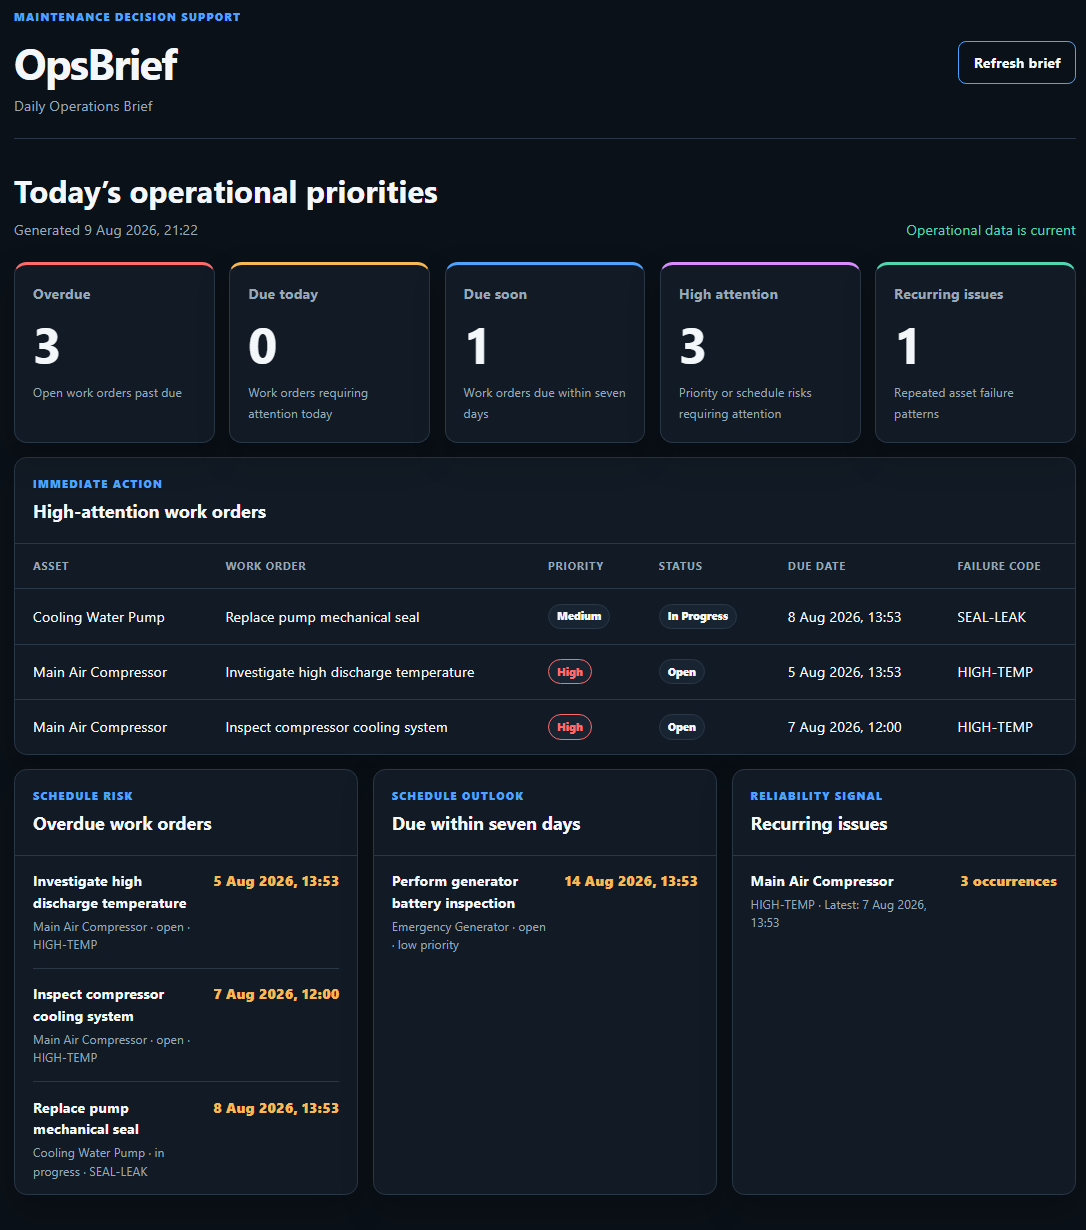
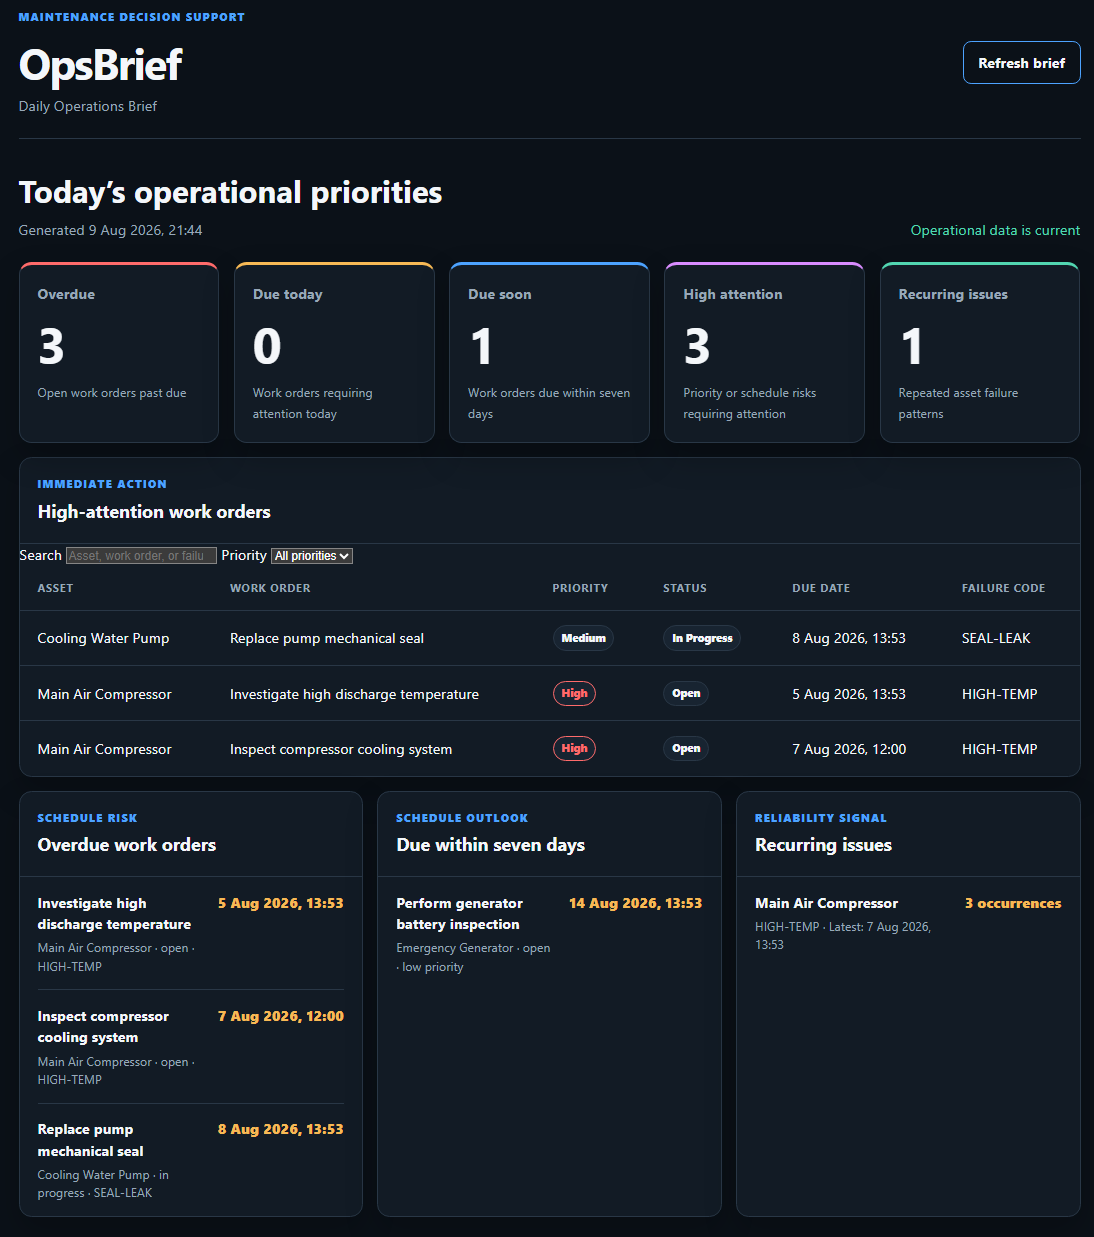
feat: add dashboard work order filters

diff --git a/app/static/dashboard.js b/app/static/dashboard.js
@@ -1,5 +1,11 @@
 const refreshButton = document.querySelector("#refresh-button");
 const statusMessage = document.querySelector("#status-message");
+const searchInput = document.querySelector("#work-order-search");
+const priorityFilter = document.querySelector("#priority-filter");
+
+let currentHighAttentionWorkOrders = [];
+let currentAssetNames = new Map();
+let currentTimezone = "UTC";
 
 function formatDate(value, timezone) {
     if (!value) {
@@ -199,6 +205,38 @@ function renderRecurring(issues, timezone) {
     }
 }
 
+function applyHighAttentionFilters() {
+    const searchTerm = searchInput.value.trim().toLowerCase();
+    const selectedPriority = priorityFilter.value;
+
+    const filteredWorkOrders =
+        currentHighAttentionWorkOrders.filter((workOrder) => {
+            const assetName =
+                currentAssetNames.get(workOrder.asset_id) ?? "";
+            const searchableText = [
+                assetName,
+                workOrder.title,
+                workOrder.failure_code ?? "",
+            ]
+                .join(" ")
+                .toLowerCase();
+
+            const matchesSearch =
+                searchableText.includes(searchTerm);
+            const matchesPriority =
+                selectedPriority === ""
+                || workOrder.priority === selectedPriority;
+
+            return matchesSearch && matchesPriority;
+        });
+
+    renderHighAttention(
+        filteredWorkOrders,
+        currentTimezone,
+        currentAssetNames,
+    );
+}
+
 function renderBrief(brief, assetNames) {
     const { summary, timezone } = brief;
 
@@ -216,11 +254,12 @@ function renderBrief(brief, assetNames) {
     document.querySelector("#generated-at").textContent =
         `Generated ${formatDate(brief.generated_at, timezone)}`;
 
-    renderHighAttention(
-        brief.high_attention_work_orders,
-        timezone,
-        assetNames,
-    );
+    currentHighAttentionWorkOrders =
+        brief.high_attention_work_orders;
+    currentAssetNames = assetNames;
+    currentTimezone = timezone;
+
+    applyHighAttentionFilters();
     renderOverdue(
         brief.overdue_work_orders,
         timezone,
@@ -289,6 +328,13 @@ renderBrief(brief, assetNames);
         refreshButton.disabled = false;
     }
 }
-
+searchInput.addEventListener(
+    "input",
+    applyHighAttentionFilters,
+);
+priorityFilter.addEventListener(
+    "change",
+    applyHighAttentionFilters,
+);
 refreshButton.addEventListener("click", loadBrief);
 loadBrief();

diff --git a/app/static/styles.css b/app/static/styles.css
@@ -207,6 +207,49 @@ main {
     border-bottom: 1px solid var(--border);
 }
 
+.filter-bar {
+    display: flex;
+    align-items: flex-end;
+    gap: 1rem;
+    padding: 1rem 1.25rem;
+    border-bottom: 1px solid var(--border);
+    background: var(--surface-light);
+}
+
+.filter-bar label {
+    display: grid;
+    gap: 0.4rem;
+}
+
+.filter-bar label:first-child {
+    flex: 1;
+}
+
+.filter-bar span {
+    color: var(--muted);
+    font-size: 0.75rem;
+    font-weight: 800;
+    letter-spacing: 0.08em;
+    text-transform: uppercase;
+}
+
+.filter-bar input,
+.filter-bar select {
+    min-height: 42px;
+    border: 1px solid var(--border);
+    border-radius: 8px;
+    padding: 0.65rem 0.75rem;
+    background: var(--background);
+    color: var(--text);
+    font: inherit;
+}
+
+.filter-bar input:focus,
+.filter-bar select:focus {
+    border-color: var(--accent);
+    outline: 2px solid rgb(77 163 255 / 25%);
+}
+
 .table-wrapper {
     overflow-x: auto;
 }
@@ -338,5 +381,10 @@ code {
 
     .metric-card {
         min-height: 150px;
+    }
+
+    .filter-bar {
+        align-items: stretch;
+        flex-direction: column;
     }
 }

diff --git a/app/static/index.html b/app/static/index.html
@@ -78,6 +78,28 @@
                 </div>
             </div>
 
+            <div class="filter-bar" aria-label="Work-order filters">
+                <label>
+                    <span>Search</span>
+                    <input
+                        id="work-order-search"
+                        type="search"
+                        placeholder="Asset, work order, or failure code"
+                    >
+                </label>
+
+                <label>
+                    <span>Priority</span>
+                    <select id="priority-filter">
+                        <option value="">All priorities</option>
+                        <option value="critical">Critical</option>
+                        <option value="high">High</option>
+                        <option value="medium">Medium</option>
+                        <option value="low">Low</option>
+                    </select>
+                </label>
+            </div>
+
             <div class="table-wrapper">
                 <table>
                     <thead>

diff --git a/tests/test_dashboard.py b/tests/test_dashboard.py
@@ -16,6 +16,8 @@ def test_dashboard_page() -> None:
     assert "due-soon-count" in response.text
     assert "due-soon-list" in response.text
     assert "<th>Asset</th>" in response.text
+    assert "work-order-search" in response.text
+    assert "priority-filter" in response.text
 
 
 def test_dashboard_stylesheet() -> None:
@@ -32,3 +34,4 @@ def test_dashboard_javascript() -> None:
     assert "javascript" in response.headers["content-type"]
     assert 'fetch("/assets"' in response.text
     assert "assetNames" in response.text
+    assert "applyHighAttentionFilters" in response.text

diff --git a/README.md b/README.md
@@ -34,6 +34,7 @@ OpsBrief is being developed to surface what requires attention instead of only d
 - Responsive Daily Operations Brief dashboard
 - Seven-day upcoming work-order risk detection
 - Asset-aware work-order context throughout the dashboard
+- Dashboard search and priority filtering
 
 ## API Endpoints
 
